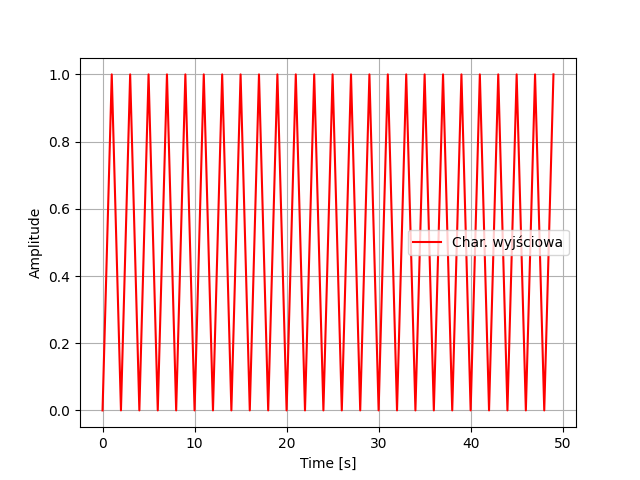
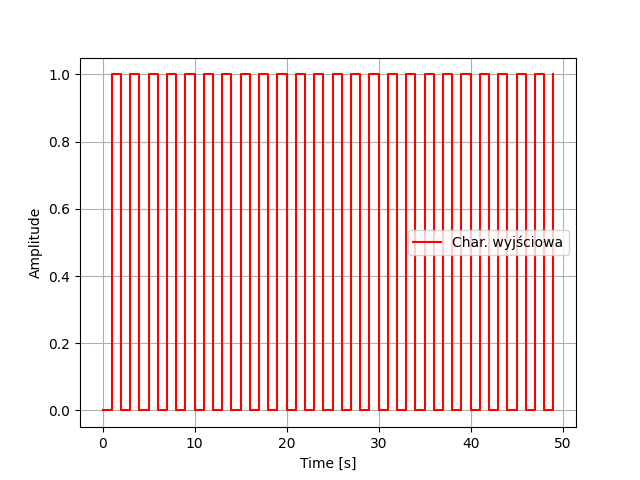
Added files in lab4

Changed region(s): [[0.1562, 0.1562, 0.875, 0.875]]

diff --git a/lab2.py b/lab2.py
@@ -43,7 +43,8 @@ for i in range(len(K)):
         plt.plot(t[f], u[s], 'b', label='Pobudzenie')
         plt.xlabel('Time [s]')
         plt.ylabel('Amplitude')
-        plt.title(r"k = %f, T = %f, A = %f, $\omega_0 = %f$" %(k[i], T[i], A[i], w0[s]))
+        plt.title(r"k = %f, T = %f, A = %f, $\omega_0 = %f$" %
+                  (k[i], T[i], A[i], w0[s]))
         plt.grid()
         plt.legend()
         plt.savefig('lab2_docs/figure%d.png' % f)
@@ -51,15 +52,17 @@ for i in range(len(K)):
 takenIndex = 2
 P = list()
 P.append(k[takenIndex] / (T[takenIndex] * w0[0] * 1j + 1))
-P.append(k[takenIndex] / (T[takenIndex] * w0[1] * 1j + 1)) 
+P.append(k[takenIndex] / (T[takenIndex] * w0[1] * 1j + 1))
 
 print(P)
 
 plt.figure(len(K) * 2)
 w, H = signal.freqresp(K[takenIndex])
 plt.plot(H.real, H.imag, "b", label="Charakterystyka")
-plt.plot(P[0].real, P[0].imag, "r", marker = "o", markersize=10, label=r"Punkt odp. pulsacji $\omega_0 = %f$" % w0[0])
-plt.plot(P[1].real, P[1].imag, "g", marker = "o", markersize=10, label=r"Punkt odp. pulsacji $\omega_0 = %f$" % w0[1])
+plt.plot(P[0].real, P[0].imag, "r", marker="o", markersize=10,
+         label=r"Punkt odp. pulsacji $\omega_0 = %f$" % w0[0])
+plt.plot(P[1].real, P[1].imag, "g", marker="o", markersize=10,
+         label=r"Punkt odp. pulsacji $\omega_0 = %f$" % w0[1])
 plt.xlabel('Re')
 plt.ylabel('Im')
 plt.legend()

diff --git a/lab4_c2d.py b/lab4_c2d.py
@@ -1,5 +1,6 @@
 from scipy import signal
 import numpy as np
+import matplotlib.pyplot as plt
 # using scipy.signal.cont2discrete to transform
 # and scipy.signal.TransferFunction
 # K(s) = 1 / (s+1)^3 = 1 / (s^3 + 3s^2 + 3s + 1)
@@ -11,9 +12,28 @@ print(K_s)
 # forward euler discretization where
 # s is replaced by s = (z-1)/dt where dt is sampling time
 
+z_dt = 0.3
+z_n = 30
+s_linspace_max = z_dt * (z_n - 1)
+
 # to use it with scipy we need to set method to gbt and alpha to 0
-K_z = K_s.to_discrete(dt=0.5, method="gbt", alpha=0)
-K_z2 = signal.cont2discrete(([1], T), dt=0.5, method="gbt", alpha=0)
+K_z = K_s.to_discrete(dt=z_dt, method="foh")
+
+# below is the same, just different method
+K_z2 = signal.cont2discrete(([1], T), dt=z_dt, method="impulse")
 
 print("to_discrete method: ", K_z)
 print("cont2discrete method: ", K_z2)
+
+tp, yp = signal.dstep(K_z, n=z_n)
+tp1, yp1 = signal.step(K_s, T=np.linspace(0., s_linspace_max, num=25000), N = 25000)
+plt.figure(0)
+plt.plot(tp1, np.squeeze(yp1), 'r', label='Char. układu liniowego')
+plt.step(tp, np.squeeze(yp), where="post", c='b', label='Char. dyskretna')
+plt.xlabel('Time [s]')
+plt.ylabel('Amplitude')
+plt.title(r"")
+plt.grid()
+plt.legend()
+plt.show()
+

diff --git a/lab4_pi.py b/lab4_pi.py
@@ -1,0 +1,20 @@
+from scipy import signal
+import numpy as np
+
+T = [1., 3., 3., 1.]
+K_s = signal.lti([1.], T)
+
+z_dt = 0.3
+z_n = 30
+s_linspace_max = z_dt * (z_n - 1)
+
+K_z = signal.cont2discrete(([1], T), dt = z_dt, method="foh")
+# K_R = k_p + k_i(1 / (z - 1)) = (k_p*z + k_i - k_p) / (z - 1)
+k_p = 1.
+k_i = 2.
+
+PI = signal.dlti([[k_p, (k_i - k_p)], [1., -1.]])
+
+
+
+K_r = signal.dlti()

diff --git a/lab4_dtf.py b/lab4_dtf.py
@@ -29,7 +29,7 @@ time = 100.  # s
 for i, k in enumerate(l):
     tp, yp = signal.dstep(k, n=50)
     plt.figure(i)
-    plt.plot(tp, np.squeeze(yp), 'r', label='Char. wyjściowa')
+    plt.step(tp, np.squeeze(yp),where = "post", c='r', label='Char. wyjściowa')
     plt.xlabel('Time [s]')
     plt.ylabel('Amplitude')
     plt.title(r"")
